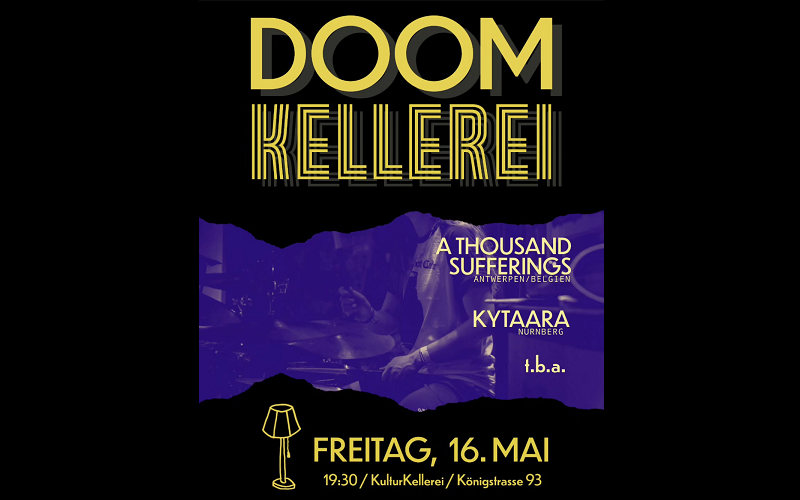
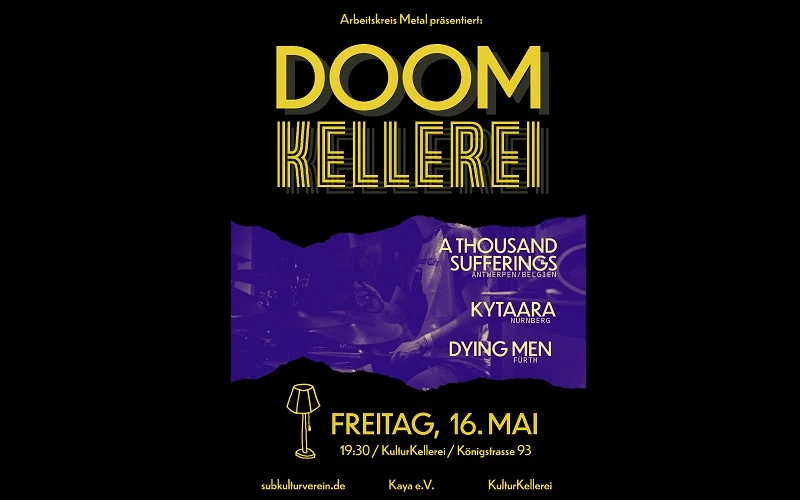
Updated Live4

Changed region(s): [[0.25, 0.42, 0.7812, 0.99], [0.3125, 0.03, 0.7188, 0.39]]

diff --git a/content/live/004_DOOMKellerei.md b/content/live/004_DOOMKellerei.md
@@ -14,7 +14,7 @@ ShowBreadCrumbs: false
 {{< gallery-slider dir="/uploads/live4/" auto-slide="3000" width="80%" height="500px" >}}
 
 **Veranstalter**  
-[Subkulturverein (Metal goes international)](https://www.instagram.com/subkulturverein/?utm_source=ig_embed)
+[Subkulturverein](https://www.subkulturverein.de/)[(Metal goes international)](https://www.instagram.com/subkulturverein/p/DIbcGyuiSkQ/)
 
 **Location**  
 [KulturKellerei](https://kultur-kellerei.de/), Königstraße 93, 90402 Nürnberg
@@ -25,7 +25,7 @@ ShowBreadCrumbs: false
 **Bands**  
 [A Thousand Sufferings](https://athousandsufferings.com/) &  
 Kytaara &  
-t.b.a.
+[Dying Men](https://www.instagram.com/dyingmen.band/)
 
 **Eintritt**  
 Abendkasse: 15€  
